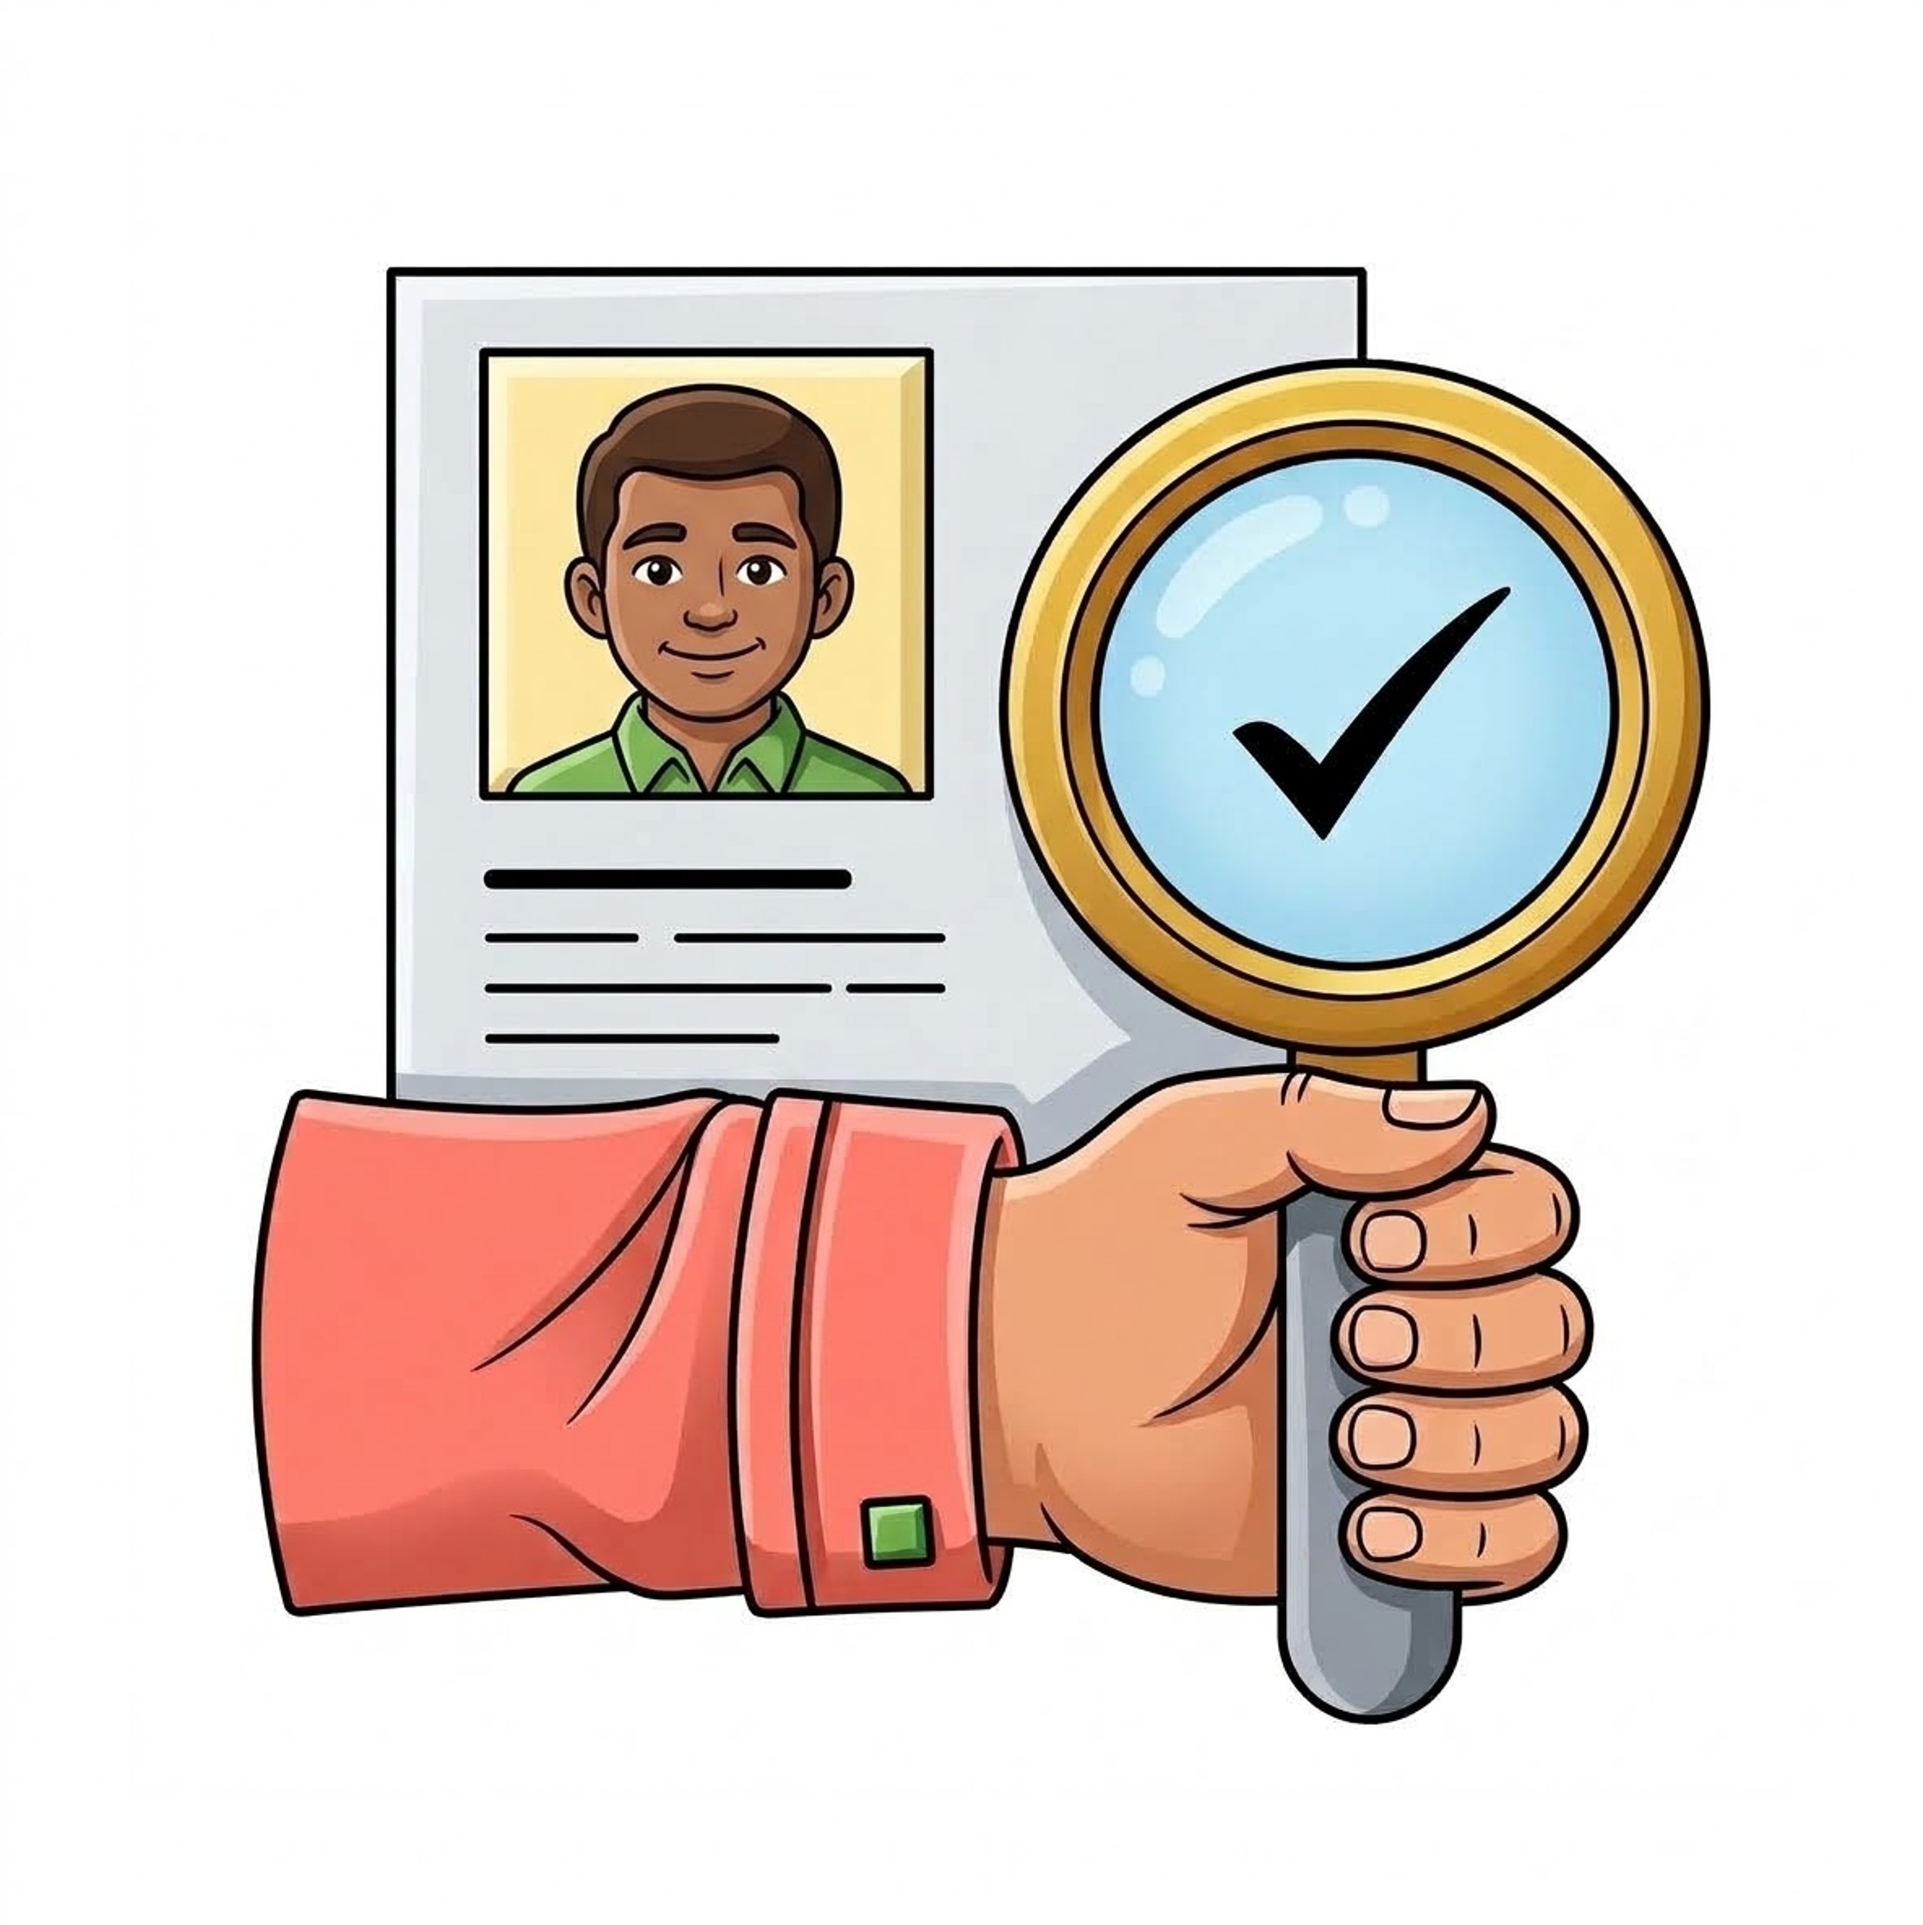
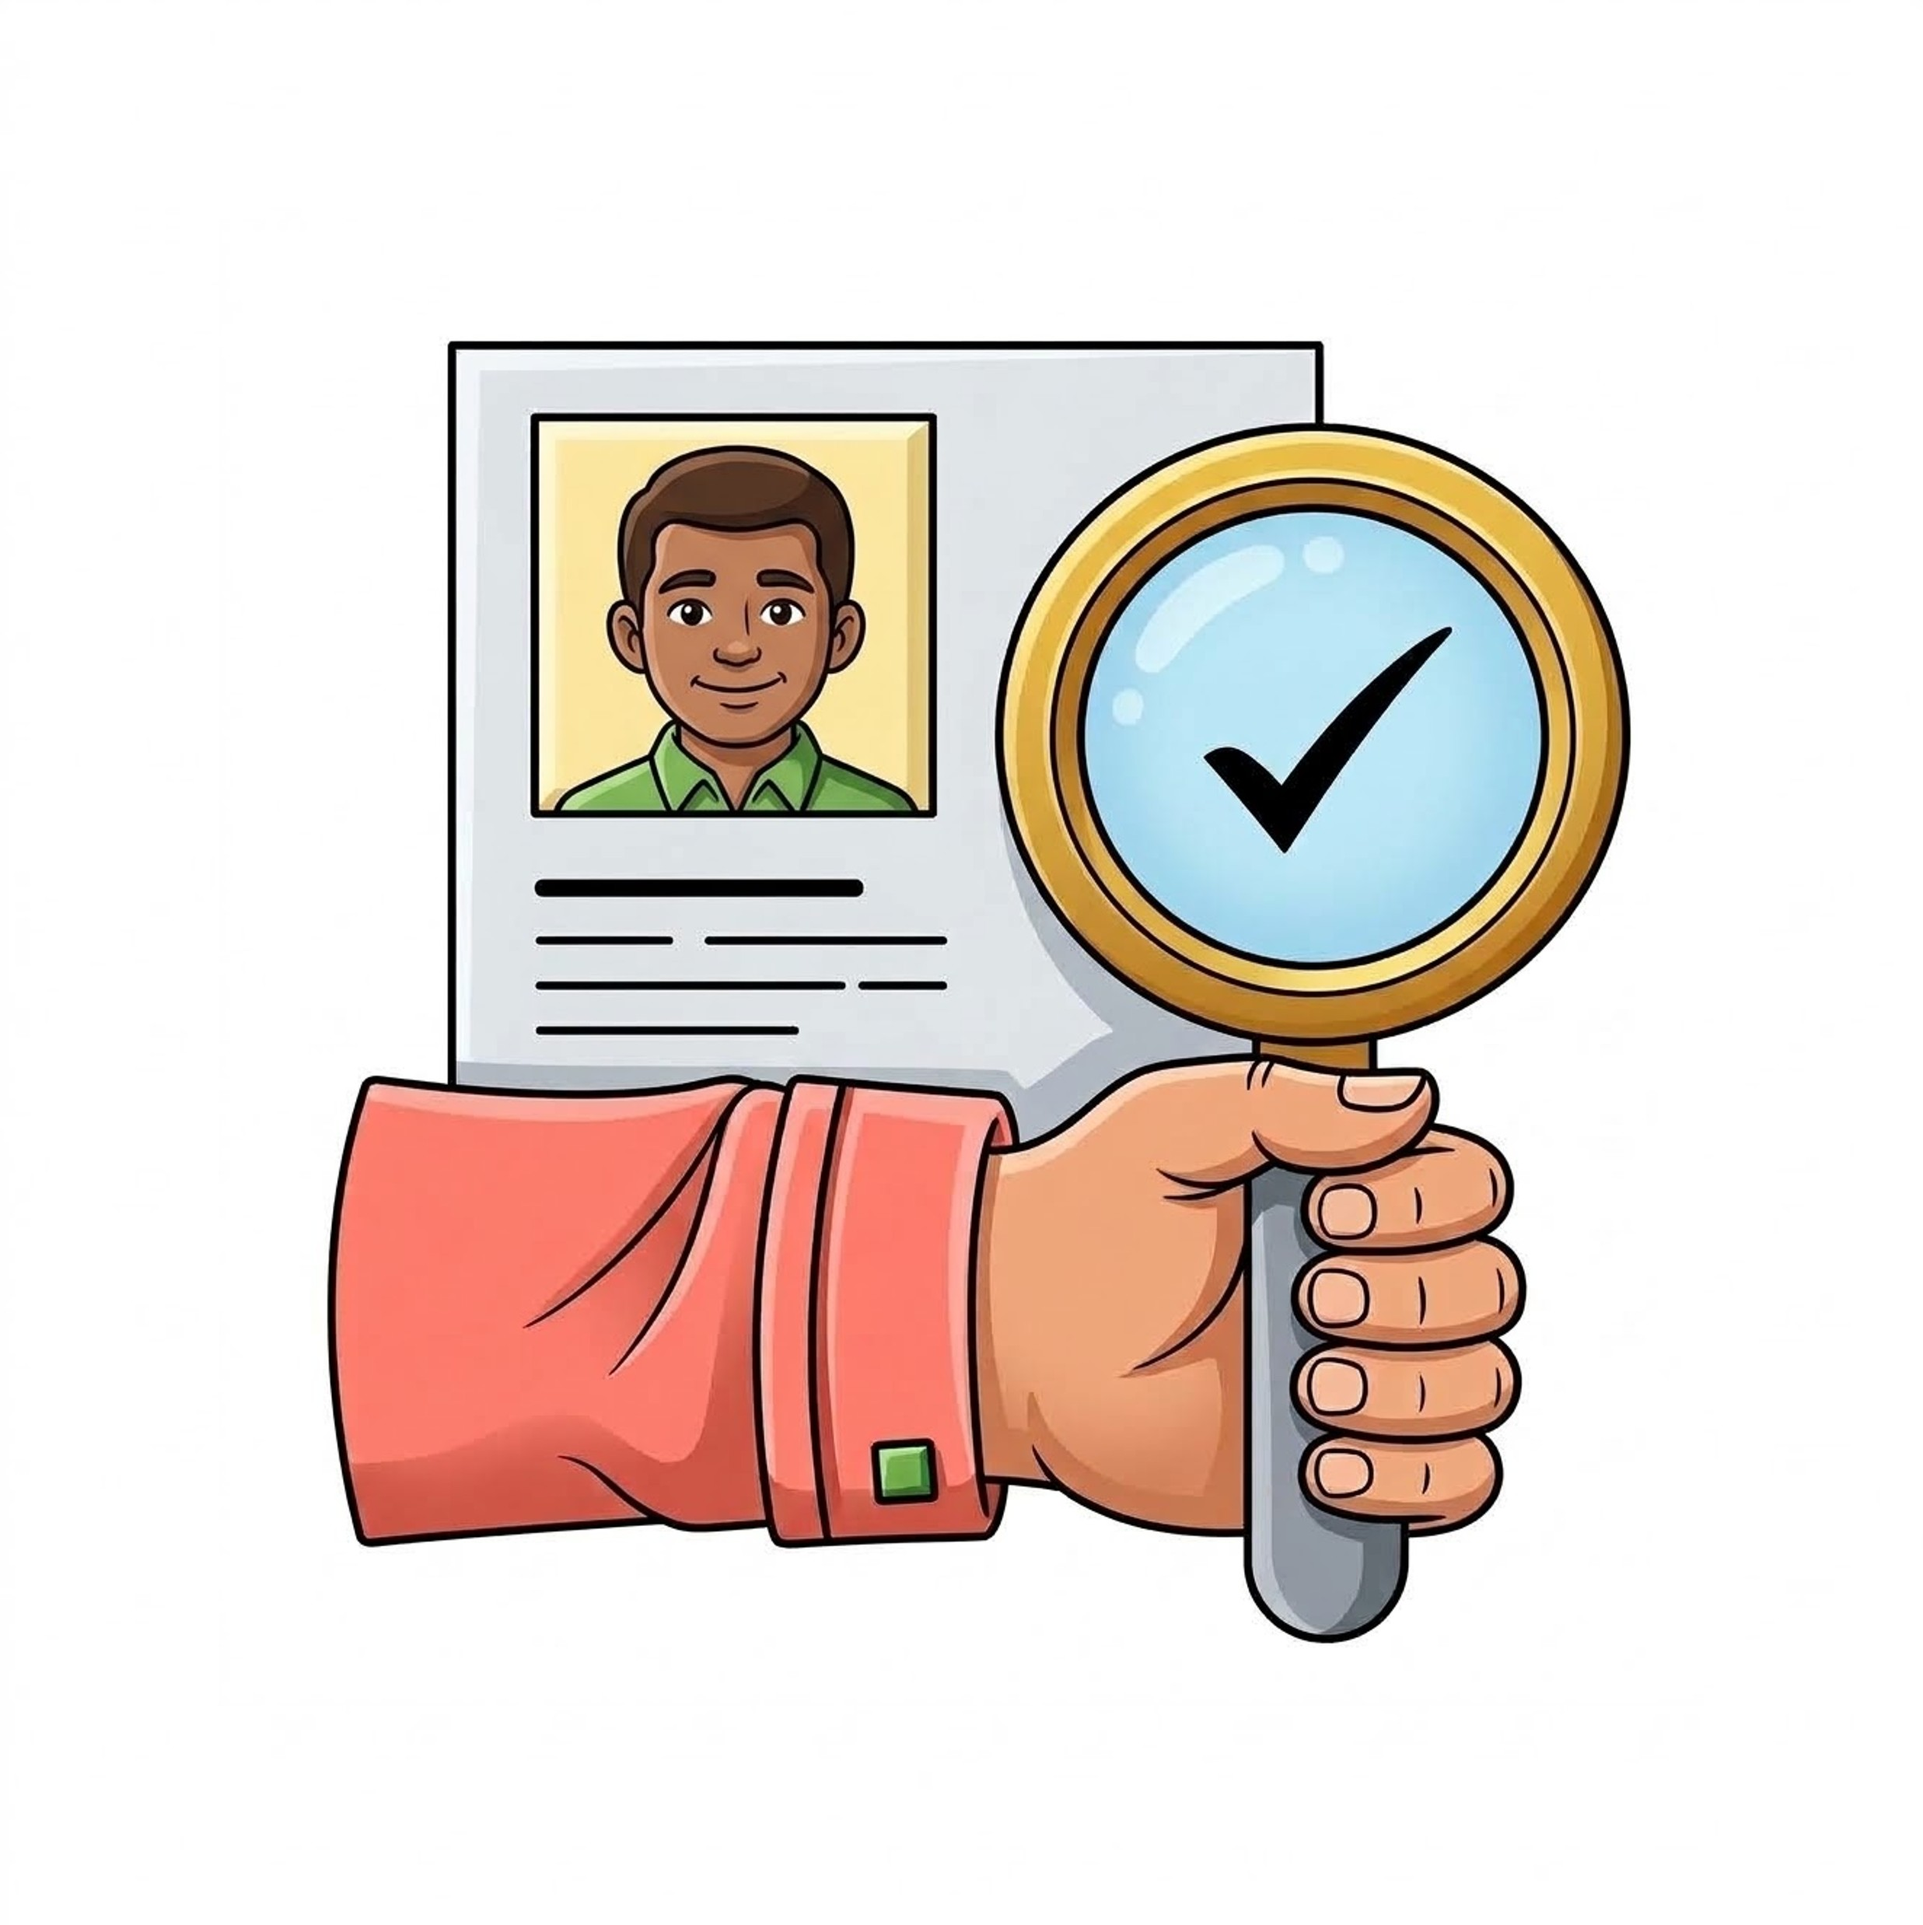
img2

Changed region(s): [[0.1245, 0.1244, 0.903, 0.9022], [0.2491, 0.6844, 0.2802, 0.7156]]

diff --git a/hco/src/features/dashboard/Menu.jsx b/hco/src/features/dashboard/Menu.jsx
@@ -391,7 +391,7 @@ export default function Menu() {
       shortLabel: "VAS",
       items: [
         {
-          title: "Reporte de Discrepancia",
+          title: "Reporte de Discrepancia Labeling",
           description: "Gestionar y registrar reportes de Discrepancia.",
           Icon: FaBoxOpen,
           accent: "accent-cyan",
@@ -400,12 +400,12 @@ export default function Menu() {
           url: "#",
         },
         {
-          title: "Auditoría de Despachos",
+          title: "Auditoría de Despachos Laboratorio",
           description: "Registrar auditorías de despachos.",
           Icon: FaBoxOpen,
           accent: "accent-violet",
           buttonText: "Entrar",
-          image: "/img/auditoria-despachos.jpg",
+          image: "/img/discrepancia.jpg",
           url: "#",
         },
       ],
@@ -435,8 +435,8 @@ export default function Menu() {
         },
         {
           title: "Inspección de casilleros",
-          description: "Inspeccionar la limpieza y orden de casilleros.",
-          Icon: FaBoxOpen,
+          description: "Inspeccionar la limpieza y orden de casilleros.", 
+          Icon: FaBoxOpen,  
           accent: "accent-violet",
           buttonText: "Entrar",
           image: "/img/casilleros.jpg",
